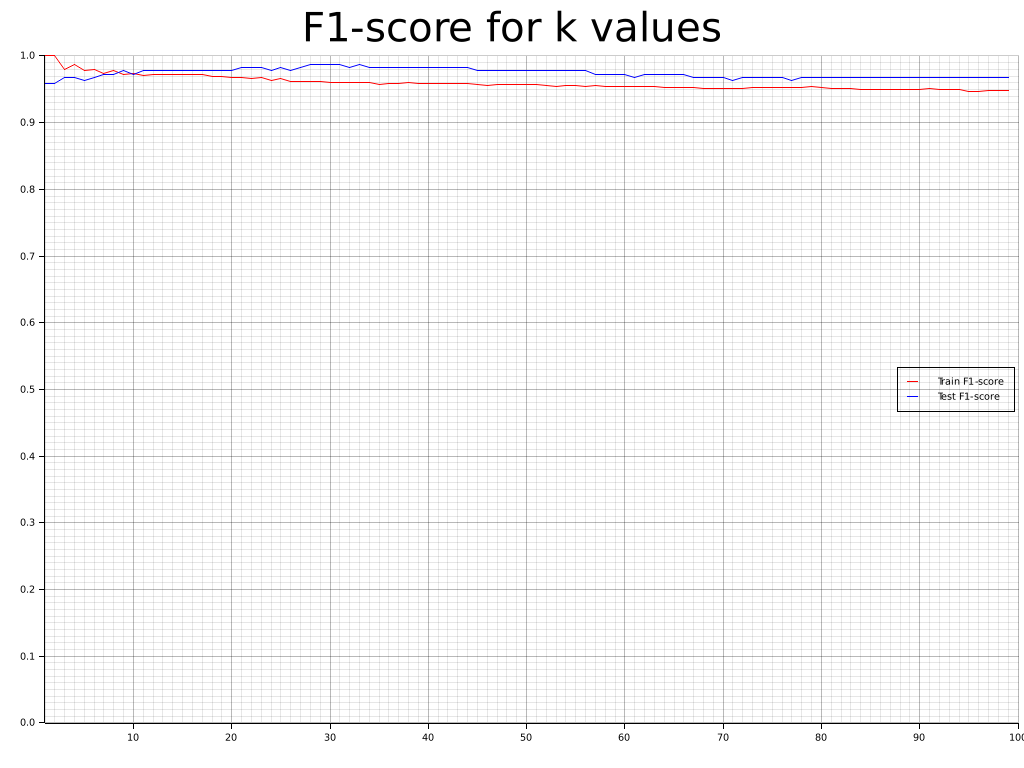
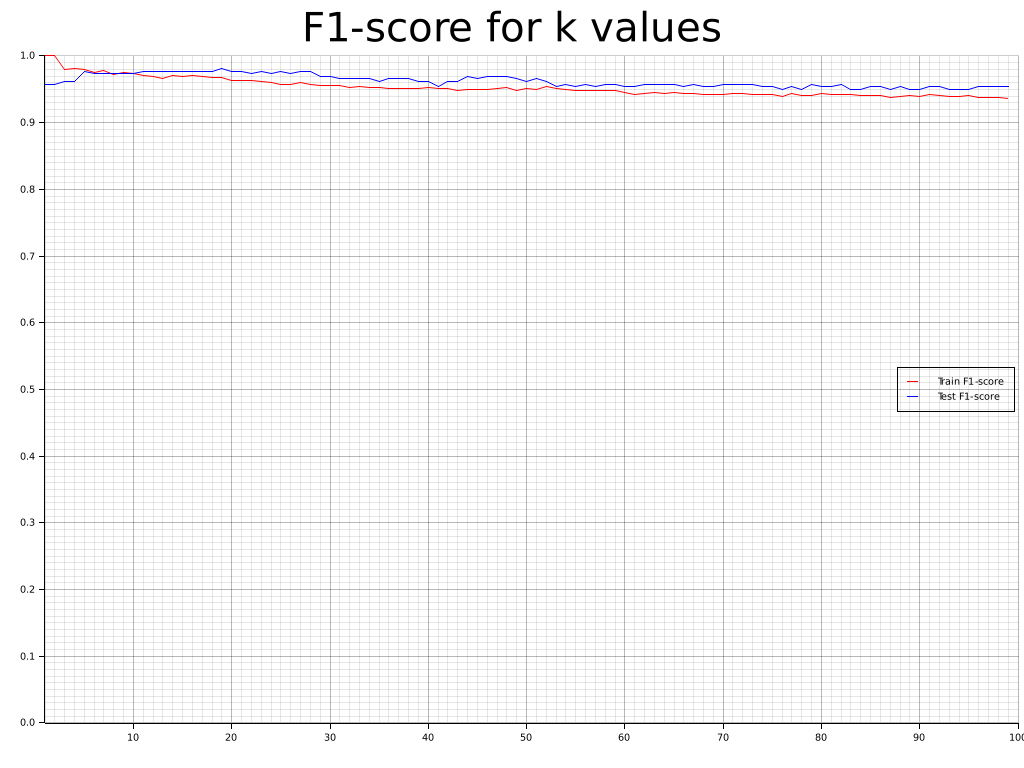
feat: add validation data

Changed region(s): [[0.1562, 0.0938, 0.9688, 0.125], [0.0625, 0.0625, 0.125, 0.125]]

diff --git a/src/main.rs b/src/main.rs
@@ -4,7 +4,7 @@ use knn::{
     kernel::{epanechnikov, gaussian, triangular, uniform},
     knn::{Data, Knn, WindowType, DIMENSIONS},
     lowess::lowess,
-    parse::breast_cancer::{parse, CsvEntry, Diagnosis},
+    parse::breast_cancer::{opposite_diagnosis, parse, CsvEntry, Diagnosis},
 };
 use plotters::{
     chart::ChartBuilder,
@@ -169,9 +169,14 @@ fn main() -> Result<(), Box<dyn Error>> {
 
     let data = csv_entries_to_data(entries);
 
-    let (train_data, test_data) = split_data(&data, 0.8);
+    const TRAIN_RATIO: f64 = 0.6;
+    const VALIDATION_RATIO: f64 = 0.6; // of data that is not train
+
+    let (train_data, test_data) = split_data(&data, TRAIN_RATIO);
+    let (test_data, validation_data) = split_data(&test_data, VALIDATION_RATIO);
     println!("train_data.len() : {}", train_data.len());
     println!("test_data.len() : {}", test_data.len());
+    println!("validation_data.len() : {}", validation_data.len());
 
     let kernel_functions: [(&str, fn(f64) -> f64); 4] = [
         ("uniform", uniform),
@@ -200,7 +205,7 @@ fn main() -> Result<(), Box<dyn Error>> {
                         train_data.len(),
                     );
                     knn_manhattan.fit(train_data.clone(), None);
-                    let accuracy = calculate_accuracy(&knn_manhattan, &test_data);
+                    let accuracy = calculate_accuracy(&knn_manhattan, &validation_data);
 
                     update_max_accuracy_and_print(
                         accuracy,
@@ -224,7 +229,7 @@ fn main() -> Result<(), Box<dyn Error>> {
                         train_data.len(),
                     );
                     knn_squared_euclidean.fit(train_data.clone(), None);
-                    let accuracy = calculate_accuracy(&knn_squared_euclidean, &test_data);
+                    let accuracy = calculate_accuracy(&knn_squared_euclidean, &validation_data);
 
                     update_max_accuracy_and_print(
                         accuracy,
@@ -248,7 +253,7 @@ fn main() -> Result<(), Box<dyn Error>> {
                         train_data.len(),
                     );
                     knn_chebyshev.fit(train_data.clone(), None);
-                    let accuracy = calculate_accuracy(&knn_chebyshev, &test_data);
+                    let accuracy = calculate_accuracy(&knn_chebyshev, &validation_data);
 
                     update_max_accuracy_and_print(
                         accuracy,
@@ -291,12 +296,20 @@ fn main() -> Result<(), Box<dyn Error>> {
 
                 let train_predictions: Vec<_> = train_data
                     .iter()
-                    .map(|data| knn_manhattan.predict(&data.features).unwrap())
+                    .map(|data| {
+                        knn_manhattan
+                            .predict(&data.features)
+                            .unwrap_or(opposite_diagnosis(data.label))
+                    })
                     .collect();
 
                 let test_predictions: Vec<_> = test_data
                     .iter()
-                    .map(|data| knn_manhattan.predict(&data.features).unwrap())
+                    .map(|data| {
+                        knn_manhattan
+                            .predict(&data.features)
+                            .unwrap_or(opposite_diagnosis(data.label))
+                    })
                     .collect();
 
                 (train_predictions, test_predictions)
@@ -313,12 +326,20 @@ fn main() -> Result<(), Box<dyn Error>> {
 
                 let train_predictions: Vec<_> = train_data
                     .iter()
-                    .map(|data| knn_squared_euclidean.predict(&data.features).unwrap())
+                    .map(|data| {
+                        knn_squared_euclidean
+                            .predict(&data.features)
+                            .unwrap_or(opposite_diagnosis(data.label))
+                    })
                     .collect();
 
                 let test_predictions: Vec<_> = test_data
                     .iter()
-                    .map(|data| knn_squared_euclidean.predict(&data.features).unwrap())
+                    .map(|data| {
+                        knn_squared_euclidean
+                            .predict(&data.features)
+                            .unwrap_or(opposite_diagnosis(data.label))
+                    })
                     .collect();
 
                 (train_predictions, test_predictions)
@@ -335,12 +356,20 @@ fn main() -> Result<(), Box<dyn Error>> {
 
                 let train_predictions: Vec<_> = train_data
                     .iter()
-                    .map(|data| knn_chebyshev.predict(&data.features).unwrap())
+                    .map(|data| {
+                        knn_chebyshev
+                            .predict(&data.features)
+                            .unwrap_or(opposite_diagnosis(data.label))
+                    })
                     .collect();
 
                 let test_predictions: Vec<_> = test_data
                     .iter()
-                    .map(|data| knn_chebyshev.predict(&data.features).unwrap())
+                    .map(|data| {
+                        knn_chebyshev
+                            .predict(&data.features)
+                            .unwrap_or(opposite_diagnosis(data.label))
+                    })
                     .collect();
 
                 (train_predictions, test_predictions)
@@ -422,11 +451,19 @@ fn main() -> Result<(), Box<dyn Error>> {
 
     let train_predictions: Vec<_> = train_data
         .iter()
-        .map(|data| knn_manhattan.predict(&data.features).unwrap())
+        .map(|data| {
+            knn_manhattan
+                .predict(&data.features)
+                .unwrap_or(opposite_diagnosis(data.label))
+        })
         .collect();
     let test_predictions: Vec<_> = test_data
         .iter()
-        .map(|data| knn_manhattan.predict(&data.features).unwrap())
+        .map(|data| {
+            knn_manhattan
+                .predict(&data.features)
+                .unwrap_or(opposite_diagnosis(data.label))
+        })
         .collect();
 
     let unweighted_accuracy = calculate_accuracy(&knn_manhattan, &test_data);
@@ -440,11 +477,19 @@ fn main() -> Result<(), Box<dyn Error>> {
 
     let train_predictions: Vec<_> = train_data
         .iter()
-        .map(|data| knn_manhattan.predict(&data.features).unwrap())
+        .map(|data| {
+            knn_manhattan
+                .predict(&data.features)
+                .unwrap_or(opposite_diagnosis(data.label))
+        })
         .collect();
     let test_predictions: Vec<_> = test_data
         .iter()
-        .map(|data| knn_manhattan.predict(&data.features).unwrap())
+        .map(|data| {
+            knn_manhattan
+                .predict(&data.features)
+                .unwrap_or(opposite_diagnosis(data.label))
+        })
         .collect();
 
     let weighted_accuracy = calculate_accuracy(&knn_manhattan, &test_data);

diff --git a/src/parse/breast_cancer.rs b/src/parse/breast_cancer.rs
@@ -23,6 +23,13 @@ pub fn to_diagnosis(diagnosis: &str) -> Diagnosis {
     }
 }
 
+pub fn opposite_diagnosis(target: Diagnosis) -> Diagnosis {
+    match target {
+        Diagnosis::Malignant => Diagnosis::Benign,
+        Diagnosis::Benign => Diagnosis::Malignant,
+    }
+}
+
 pub fn z_score_normalize(data: &[f64]) -> Vec<f64> {
     let mean = data.iter().copied().sum::<f64>() / data.len() as f64;
     let variance = data.iter().map(|x| (x - mean).powi(2)).sum::<f64>() / data.len() as f64;
